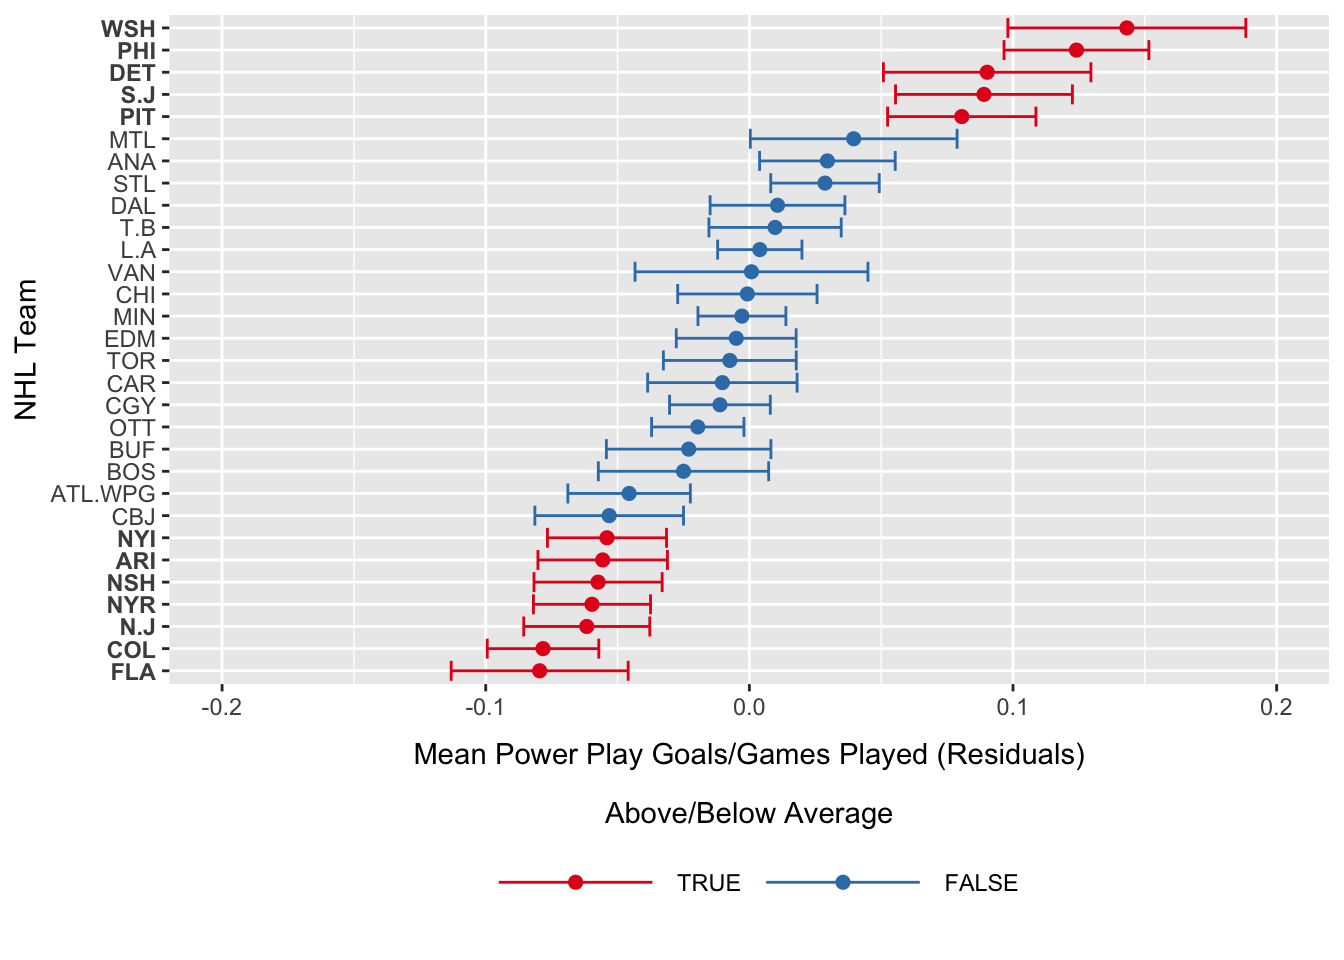
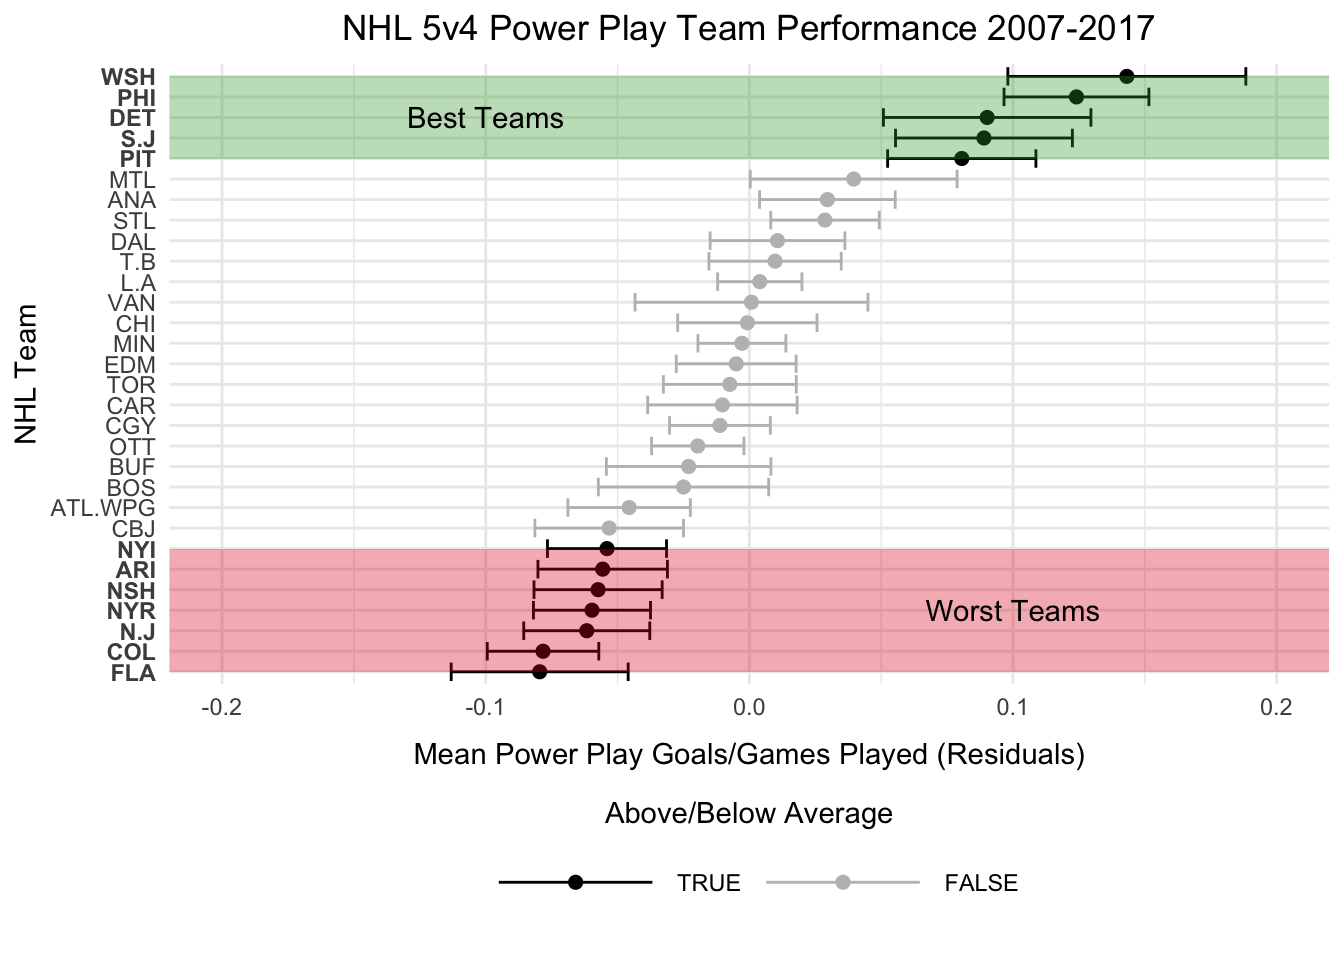
Made post more readable

diff --git a/post-The-Last-Decade-NHLs-Best-and-Worst-Power-Play-Teams.html b/post-The-Last-Decade-NHLs-Best-and-Worst-Power-Play-Teams.html
@@ -253,20 +253,20 @@ data5v4$Team &lt;- plyr::revalue(data5v4$Team, c(ATL = &#39;ATL.WPG&#39;, WPG = 
 <p>Next, I plotted the global trend of total regular-season power play goals for each of the 30 NHL teams over the last decade.</p>
 <pre class="r"><code># Step 2a: Look at power play goals 5v4 for every team in the past 
 ggplot(data5v4, aes(factor(Season), GF, group = 1)) +
-    geom_line(aes(group = factor(Team)), alpha = 1/2) + 
-    geom_line(stat = &#39;summary&#39;, fun.y = &#39;mean&#39;, colour = &#39;red&#39;) +
-    xlab(&#39;Season&#39;) +
-    ylab(&#39;Total Season Power Play Goals (5v4)&#39;) +
-    theme(axis.text.x = element_text(angle = 15, hjust = 1))</code></pre>
+  geom_line(aes(group = factor(Team)), alpha = 1/2) + 
+  geom_line(stat = &#39;summary&#39;, fun.y = &#39;mean&#39;, colour = &#39;red&#39;) +
+  xlab(&#39;Season&#39;) +
+  ylab(&#39;Total Season Power Play Goals (5v4)&#39;) +
+  theme(axis.text.x = element_text(angle = 15, hjust = 1))</code></pre>
 <p><img src="post-The-Last-Decade-NHLs-Best-and-Worst-Power-Play-Teams_files/figure-html/decade-nhl-power-play-1.png" width="672" style="display: block; margin: auto;" /></p>
 <p>In this above plot, each team is a grey line, while the average total power play goals for each season is plotted in the red trend line. However, we see that this doesn’t control for the shortened lockout season that occurred in 2012-2013. Let’s control for this by dividing the total power play goals (GF) by the total games played (GP) each season.</p>
 <pre class="r"><code># Step 2b: Control for games played due to partial lockout season (2012-2013)
 ggplot(data5v4, aes(factor(Season), GF/GP, group = 1)) +
-    geom_line(aes(group = factor(Team)), alpha = 1/2) + 
-    geom_line(stat = &#39;summary&#39;, fun.y = &#39;mean&#39;, colour = &#39;red&#39;) +
-    xlab(&#39;Season&#39;) +
-    ylab(&#39;Total Season Power Play Goals/Games Played (5v4)&#39;) +
-    theme(axis.text.x = element_text(angle = 15, hjust = 1))</code></pre>
+  geom_line(aes(group = factor(Team)), alpha = 1/2) + 
+  geom_line(stat = &#39;summary&#39;, fun.y = &#39;mean&#39;, colour = &#39;red&#39;) +
+  xlab(&#39;Season&#39;) +
+  ylab(&#39;Total Season Power Play Goals/Games Played (5v4)&#39;) +
+  theme(axis.text.x = element_text(angle = 15, hjust = 1))</code></pre>
 <p><img src="post-The-Last-Decade-NHLs-Best-and-Worst-Power-Play-Teams_files/figure-html/decade-nhl-power-play-controlled-1.png" width="672" style="display: block; margin: auto;" /></p>
 <p>We now see each team’s power play performance controlled for the games played that season. What is interesting about this above plot is the seemingly decrease in power play goals across time. Let’s model this with a linear regression that predicts the total season power play goals controlled for games played as a function of time/season.</p>
 <pre class="r"><code># Step 3a: Linearly model this negative relationship between 
@@ -302,12 +302,12 @@ summary(mod) # Very significant negative trend over time</code></pre>
 <p>As we can see from the regression model and coefficients, power play goals are decreasing with each successive season. Here is a plot of this negative trend in blue.</p>
 <pre class="r"><code># Step 3b: Plot this linear trend over time
 ggplot(data5v4, aes(factor(Season), GF/GP, group = 1)) +
-    geom_line(aes(group = factor(Team)), alpha = 1/2) + 
-    geom_line(stat = &#39;summary&#39;, fun.y = &#39;mean&#39;, colour = &#39;red&#39;) +
-    xlab(&#39;Season&#39;) +
-    ylab(&#39;Total Season Power Play Goals/Games Played (5v4)&#39;) +
-    stat_smooth(method = &#39;lm&#39;, col = &#39;blue&#39;, se = F) +
-    theme(axis.text.x = element_text(angle = 15, hjust = 1))</code></pre>
+  geom_line(aes(group = factor(Team)), alpha = 1/2) + 
+  geom_line(stat = &#39;summary&#39;, fun.y = &#39;mean&#39;, colour = &#39;red&#39;) +
+  xlab(&#39;Season&#39;) +
+  ylab(&#39;Total Season Power Play Goals/Games Played (5v4)&#39;) +
+  stat_smooth(method = &#39;lm&#39;, col = &#39;blue&#39;, se = F) +
+  theme(axis.text.x = element_text(angle = 15, hjust = 1))</code></pre>
 <p><img src="post-The-Last-Decade-NHLs-Best-and-Worst-Power-Play-Teams_files/figure-html/decade-nhl-power-play-decrease-1.png" width="672" style="display: block; margin: auto;" /></p>
 <p>I then wondered which teams, despite this decrease in power play goals over time, had the best or worst power play across the last decade? To remove this negative trend over time, I extracted the residuals from the model. The residuals are simply the distance from the blue line (the predicted power play goals over time) to each team’s grey line (total power play goals/games played for each year).</p>
 <pre class="r"><code># Step 4a: Remove this linear trend and focus on residuals
@@ -347,35 +347,78 @@ print(bestPP)</code></pre>
 # and color based on if significantly different from 0 (i.e., average PPG/Game)
 
 # -- To get y.axis bold conditional -- # 
-  bestPPSort &lt;- arrange(bestPP, mean)                       
-  axisFace &lt;- ifelse(bestPPSort$sig == T,&#39;bold&#39;, &#39;plain&#39;)
-# -- To get y.axis bold conditional -- # 
+bestPPSort &lt;- arrange(bestPP, mean)                       
+axisFace &lt;- ifelse(bestPPSort$sig == T,&#39;bold&#39;, &#39;plain&#39;)
+# -- To get y.axis bold conditional -- #
+  
+# -- To get shading conditional -- #
+above &lt;- bestPP %&gt;% filter(mean &gt; 0, sig == TRUE) %&gt;% arrange(mean)
+average &lt;- bestPP %&gt;% filter(sig == FALSE)
+below &lt;- bestPP %&gt;% filter(mean &lt; 0, sig == TRUE) %&gt;% arrange(mean)
+# -- To get shading conditional -- #
+  
 ggplot(bestPP, aes(mean, reorder(Team, mean), colour = sig)) +
   geom_errorbarh(aes(xmin = mean - sem, xmax = mean + sem)) +
   geom_point(size = 2) +
   scale_x_continuous(limits = (c(-.2, .2))) +
-  scale_color_brewer(palette = &#39;Set1&#39;, 
-                     direction = -1,
+  scale_color_manual(values = c(&#39;grey&#39;, &#39;black&#39;),
                      guide = guide_legend(reverse = T,
                                           title = &#39;Above/Below Average&#39;,
                                           title.position = &#39;top&#39;)) +
-  xlab(&#39;Mean Power Play Goals/Games Played (Residuals)&#39;) +
-  ylab(&#39;NHL Team&#39;) +
+  labs(x = &#39;Mean Power Play Goals/Games Played (Residuals)&#39;,
+       y = &#39;NHL Team&#39;,
+       title = &#39;NHL 5v4 Power Play Team Performance 2007-2017&#39;) +
+  theme_minimal() +
   theme(axis.text.y = element_text(face = axisFace),
+        plot.title = element_text(hjust = 0.5),
         legend.position = &#39;bottom&#39;,
         legend.key = element_rect(colour = &quot;transparent&quot;, fill = &quot;white&quot;),
         legend.key.width = unit(1, &#39;in&#39;),
         legend.key.height = unit(.5, &#39;in&#39;),
         legend.title.align = .5,
-        axis.title.x = element_text(vjust = -1))</code></pre>
+        axis.title.x = element_text(vjust = -1)) +
+  annotate(&#39;rect&#39;, 
+           xmin = -Inf, 
+           xmax = Inf, 
+           ymax = above$Team[nrow(above)],
+           ymin = above$Team[1], 
+           fill = &#39;#33a02c&#39;, 
+           alpha = 1/3) +
+  annotate(&#39;rect&#39;, 
+         xmin = -Inf, 
+         xmax = Inf, 
+         ymax = below$Team[nrow(below)],
+         ymin = below$Team[1], 
+         fill = &#39;#e31a1c&#39;, 
+         alpha = 1/3) +
+  annotate(&#39;text&#39;, x = -.1, y = above$Team[3], label = &#39;Best Teams&#39;) +
+  annotate(&#39;text&#39;, x = .1, y = below$Team[4], label = &#39;Worst Teams&#39;)</code></pre>
 <p><img src="post-The-Last-Decade-NHLs-Best-and-Worst-Power-Play-Teams_files/figure-html/nhl-best-worst-power-play-teams-1.png" width="672" style="display: block; margin: auto;" /></p>
 <p>As we can see from this plot, the top power play teams in the past decade have been the Washington Capitals, Philadelphia Flyers, Detroit Red Wings, San Jose Sharks, and Pittsburgh Penguins. Meanwhile, the worst power play teams have been the New York Islanders, Phoenix Coyotes, Nashville Predators, New York Rangers, New Jersey Devils, Colorado Avalanche, and Florida Panthers.</p>
 <p>Interestingly, only 5 different teams have won the Stanley Cup in this ten year span. Of the top power play teams from this analysis, only the Red Wings and the Penguins have won the Stanley Cup, while the Blackhawks, the Kings, the Bruins all had average regular-season power plays. It is unclear how regular-season power play performance relates to Stanley Cup wins; however, this analysis demonstrated 3 key findings for this last decade of hockey (2007 – 2017):</p>
 <ol style="list-style-type: decimal">
 <li>League-wide total power play goals per season have decreased</li>
-<li>Top power play teams are the Washington Capitals, Philadelphia Flyers, Detroit Red Wings, and the San Jose Sharks, and Pittsburgh Penguins</li>
-<li>Worst power play teams are New York Islanders, Phoenix Coyotes, Nashville Predators, New York Rangers, New Jersey Devils, Colorado Avalanche, and Florida Panthers</li>
+<li>Top power play teams are:</li>
 </ol>
+<ul>
+<li>Washington Capitals</li>
+<li>Philadelphia Flyers</li>
+<li>Detroit Red Wings</li>
+<li>San Jose Sharks</li>
+<li>Pittsburgh Penguins</li>
+</ul>
+<ol start="3" style="list-style-type: decimal">
+<li>Worst power play teams are:</li>
+</ol>
+<ul>
+<li>New York Islanders</li>
+<li>Phoenix Coyotes</li>
+<li>Nashville Predators</li>
+<li>New York Rangers</li>
+<li>New Jersey Devils</li>
+<li>Colorado Avalanche</li>
+<li>Florida Panthers</li>
+</ul>
 <div id="acknowledgments" class="section level3">
 <h3>Acknowledgments:</h3>
 <p>This analysis was inspired by Part III of <a href="https://github.com/hadley/ggplot2-book">ggplot2: Elegant Graphics for Data Analysis</a> by Hadley Wickham.</p>

diff --git a/_navbar.html b/_navbar.html
@@ -9,7 +9,7 @@
       <a class="navbar-brand" href="index.html">
         <i class="fa fa-area-chart logo-icon1" aria-hidden="true"></i> 
         <i class="fa fa-bar-chart logo-icon2" aria-hidden="true"></i> 
-        <i class="fa fa-line-chart logo-icon3" aria-hidden="true"></i>       Matthew J. Kmiecik</a> <!-- You can put words here for nav -->
+        <i class="fa fa-line-chart logo-icon3" aria-hidden="true"></i> Matthew J. Kmiecik</a> <!-- You can put words here for nav -->
     </div>
     <div id="navbar" class="navbar-collapse collapse">
       <ul class="nav navbar-nav navbar-right">
